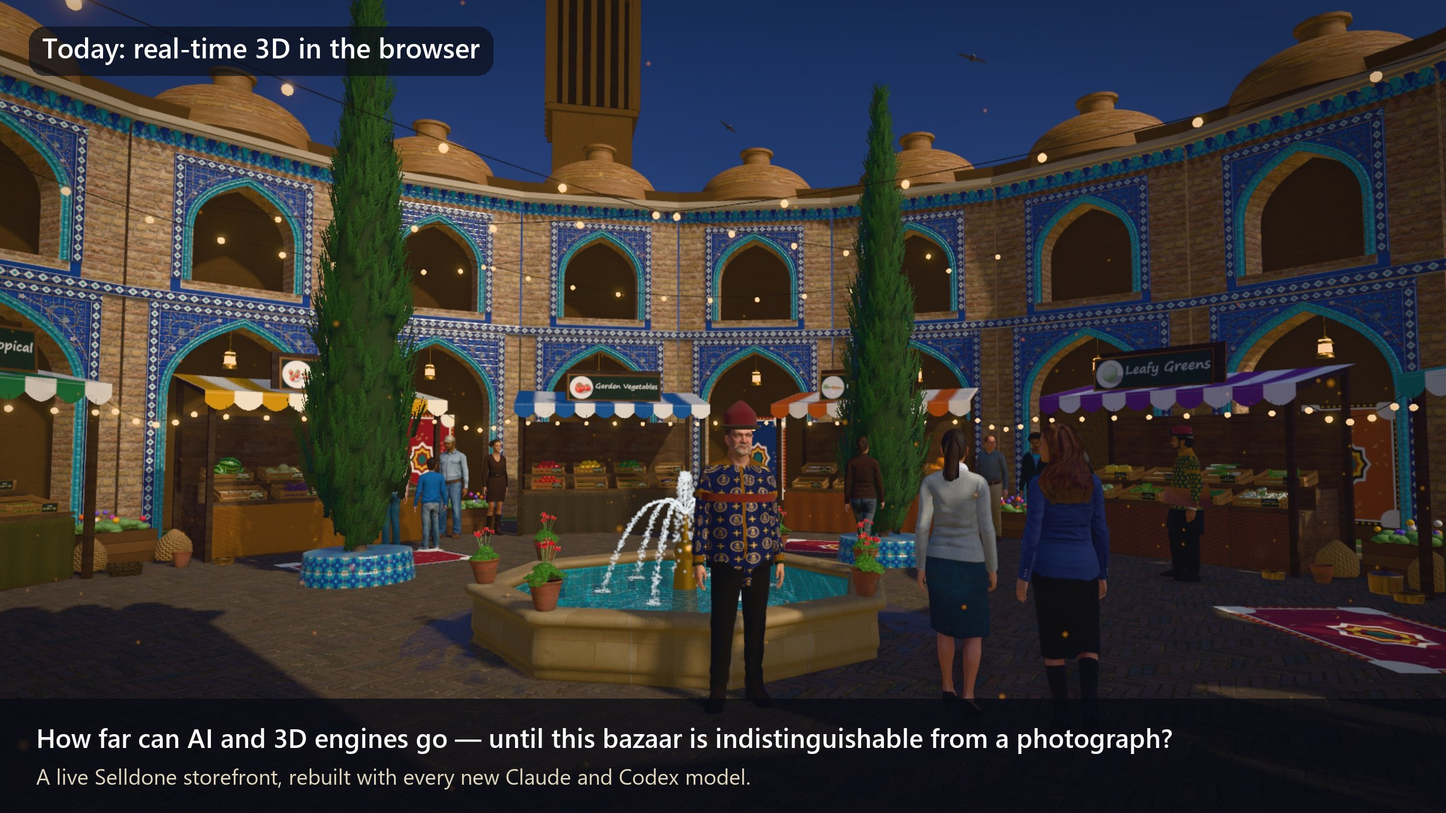
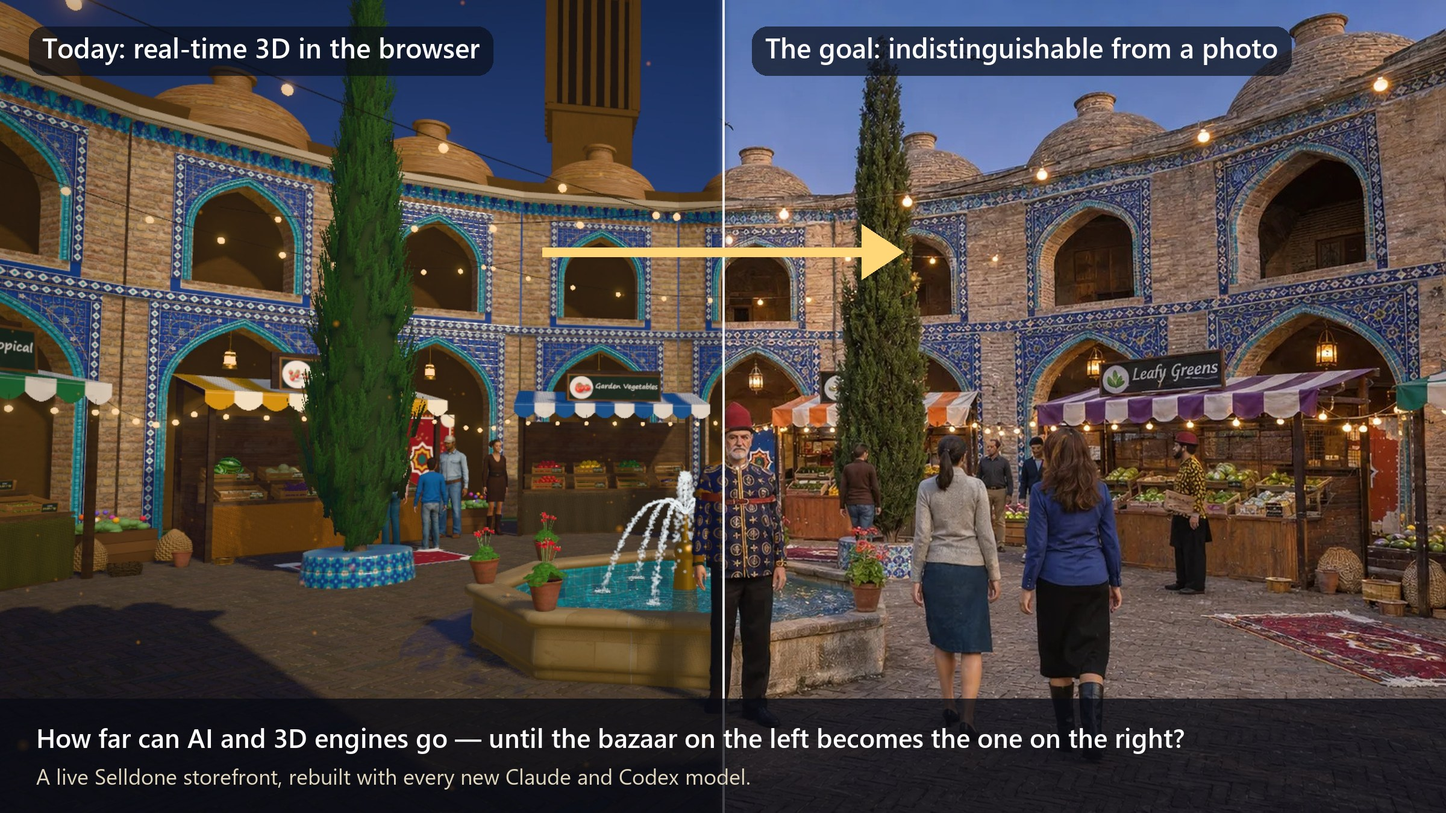
Hero: today's live render beside the same frame as a photograph

diff --git a/README.md b/README.md
@@ -1,5 +1,5 @@
 <p align="center">
-  <img src="docs/screenshots/hero.jpg" alt="The bazaar as it renders live in your browser today" width="100%">
+  <img src="docs/screenshots/hero.jpg" alt="Left: the bazaar as it renders live in your browser today. Right: the same frame as a photograph, the goal of this project." width="100%">
 </p>
 
 <h1 align="center">Old Bazaar 3D</h1>
@@ -37,11 +37,11 @@
 
 The picture above is the whole idea of this project.
 
-- **Today:** what runs in your browser right now. A real-time 3D scene: three.js, a photographed HDR sky, photo-scanned materials and produce, motion-captured people, all at 60 frames a second on an ordinary laptop or phone.
-- **The goal:** the same frame, indistinguishable from a photograph of a real bazaar.
+- **Left, today:** what runs in your browser right now. A real-time 3D scene: three.js, a photographed HDR sky, photo-scanned materials and produce, motion-captured people, all at 60 frames a second on an ordinary laptop or phone.
+- **Right, the goal:** the very same frame re-imagined by an image model as a photograph of a real bazaar. Same arches, same stalls, same people, same light — only real.
 
-**How far can AI and 3D engines go, and how fast, until a screenshot of this bazaar *is* a photograph?**
-We rebuild the scene with every new AI model, Claude and Codex, and keep each result. The gap between the render and a photograph is the benchmark.
+**How far can AI and 3D engines go, and how fast, until the bazaar on the left *is* the bazaar on the right?**
+We rebuild the scene with every new AI model, Claude and Codex, and keep each result. The gap between the two halves is the benchmark.
 
 ## This is a real shop
 
